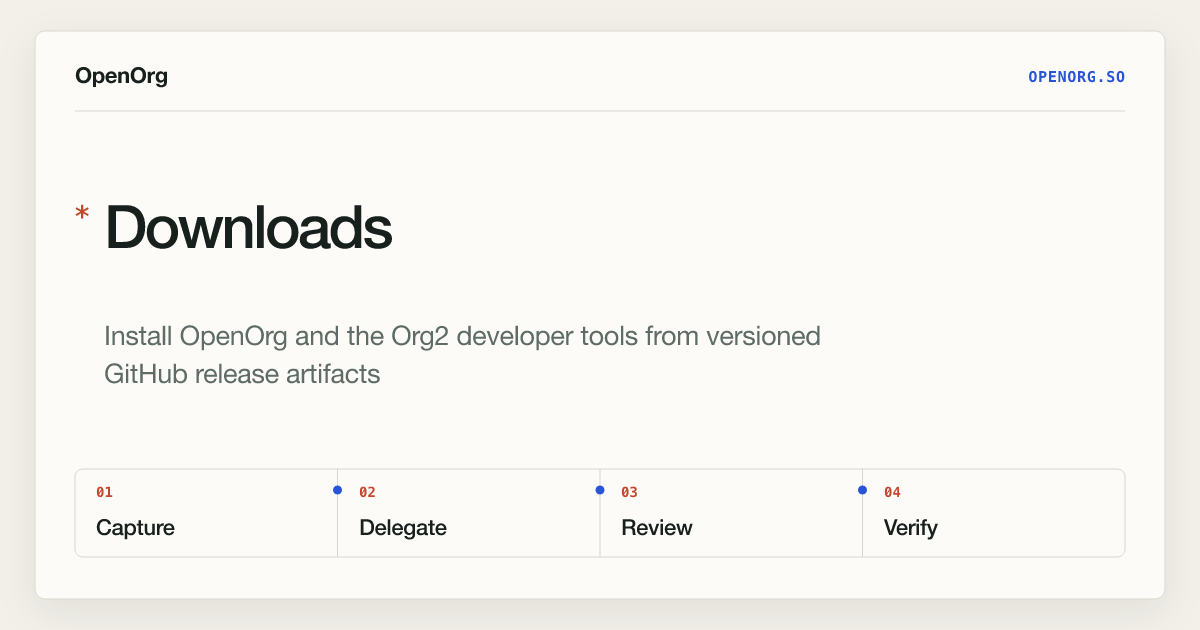
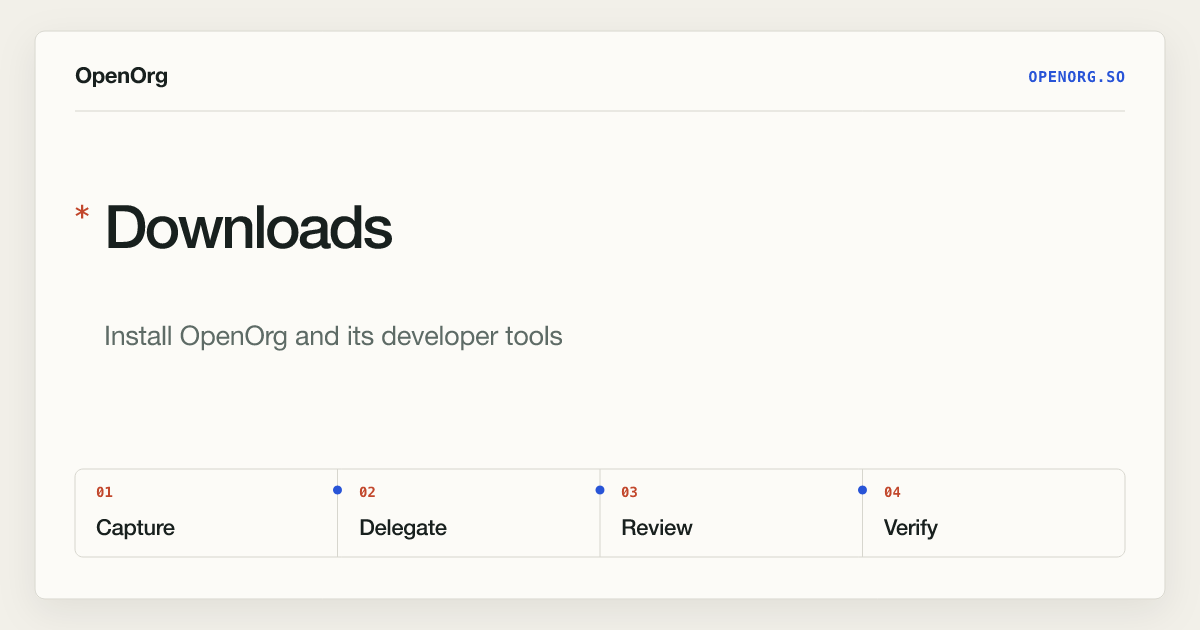
Publish OpenOrg 0.5.1 download surfaces

Changed region(s): [[0.2775, 0.5127, 0.6783, 0.573], [0.0925, 0.573, 0.3083, 0.6333]]

diff --git a/site/downloads.html b/site/downloads.html
@@ -4,31 +4,31 @@
 <meta charset="utf-8" />
 <meta name="viewport" content="width=device-width, initial-scale=1" />
 <title>Downloads</title>
-<meta name="subtitle" content="Install OpenOrg and the Org2 developer tools from versioned GitHub release artifacts" />
+<meta name="subtitle" content="Install OpenOrg and its developer tools" />
 <link rel="icon" type="image/png" href="assets/favicon.png" />
 <link rel="apple-touch-icon" href="assets/apple-touch-icon.png" />
 <script type="module" src="assets/shiki-vscode.js"></script>
 <script defer src="assets/nav.js"></script>
-<meta name="description" content="Install OpenOrg and the Org2 developer tools from versioned GitHub release artifacts" />
+<meta name="description" content="Install OpenOrg and its developer tools" />
 <link rel="canonical" href="https://openorg.so/downloads.html" />
 <meta property="og:type" content="website" />
 <meta property="og:site_name" content="OpenOrg" />
 <meta property="og:locale" content="en_US" />
 <meta property="og:title" content="Downloads" />
-<meta property="og:description" content="Install OpenOrg and the Org2 developer tools from versioned GitHub release artifacts" />
+<meta property="og:description" content="Install OpenOrg and its developer tools" />
 <meta property="og:url" content="https://openorg.so/downloads.html" />
 <meta property="og:image" content="https://openorg.so/assets/og/downloads.png" />
 <meta property="og:image:secure_url" content="https://openorg.so/assets/og/downloads.png" />
 <meta property="og:image:type" content="image/png" />
 <meta property="og:image:width" content="1200" />
 <meta property="og:image:height" content="630" />
-<meta property="og:image:alt" content="Downloads — Install OpenOrg and the Org2 developer tools from versioned GitHub release artifacts" />
+<meta property="og:image:alt" content="Downloads — Install OpenOrg and its developer tools" />
 <meta name="twitter:card" content="summary_large_image" />
 <meta name="twitter:title" content="Downloads" />
-<meta name="twitter:description" content="Install OpenOrg and the Org2 developer tools from versioned GitHub release artifacts" />
+<meta name="twitter:description" content="Install OpenOrg and its developer tools" />
 <meta name="twitter:url" content="https://openorg.so/downloads.html" />
 <meta name="twitter:image" content="https://openorg.so/assets/og/downloads.png" />
-<meta name="twitter:image:alt" content="Downloads — Install OpenOrg and the Org2 developer tools from versioned GitHub release artifacts" />
+<meta name="twitter:image:alt" content="Downloads — Install OpenOrg and its developer tools" />
 <link rel="stylesheet" href="assets/site.css" />
 <style>
 :root { color-scheme: light dark; }
@@ -64,45 +64,45 @@ a { text-decoration-thickness: 0.08em; text-underline-offset: 0.15em; }
 <div class="org2-nav"><details class="org2-nav-menu" open><summary>Menu</summary><nav aria-label="OpenOrg"><a href="index.html">OpenOrg</a><a href="features.html">How it works</a><a href="getting-started.html">Getting started</a><a href="downloads.html">Downloads</a><a href="openorg-and-org2.html">Architecture</a><details class="org2-nav-dropdown"><summary>Org2 developer docs</summary><div class="org2-nav-dropdown-menu"><a href="reference.html">Overview</a><a href="corpus-flow.html">Corpus flow</a><a href="language-reference.html">Language reference</a><a href="tooling-reference.html">Tooling reference</a><a href="maintenance-workflows.html">Maintenance and health</a><a href="agent-quickstart.html">Agents and models</a><a href="semantics-status.html">Semantics and status</a><a href="migration.html">Practical migration</a></div></details><details class="org2-nav-dropdown"><summary>Editors</summary><div class="org2-nav-dropdown-menu"><a href="editors.html">Overview</a><a href="editors-macos.html">OpenOrg for macOS</a><a href="editors-vscode.html">VS Code</a><a href="editors-vim.html">Vim / Neovim</a><a href="editors-emacs.html">Emacs</a></div></details><a class="org2-nav-github" href="https://github.com/aviaviavi/org2" target="_blank" rel="noopener noreferrer"><svg class="org2-nav-github-icon" viewBox="0 0 16 16" aria-hidden="true"><path fill="currentColor" d="M8 0C3.58 0 0 3.58 0 8a8.013 8.013 0 0 0 5.47 7.59c.4.07.55-.17.55-.38 0-.19-.01-.82-.01-1.49-2.01.37-2.53-.49-2.69-.94-.09-.23-.48-.94-.82-1.13-.28-.15-.68-.52-.01-.53.63-.01 1.08.58 1.23.82.72 1.21 1.87.87 2.33.66.07-.52.28-.87.5-1.07-1.78-.2-3.64-.89-3.64-3.95 0-.87.31-1.59.82-2.15-.08-.2-.36-1.02.08-2.12 0 0 .67-.21 2.2.82a7.57 7.57 0 0 1 2-.27c.68 0 1.36.09 2 .27 1.53-1.04 2.2-.82 2.2-.82.44 1.1.16 1.92.08 2.12.51.56.82 1.27.82 2.15 0 3.07-1.87 3.75-3.65 3.95.29.25.54.73.54 1.48 0 1.07-.01 1.93-.01 2.19 0 .21.15.46.55.38A8.013 8.013 0 0 0 16 8c0-4.42-3.58-8-8-8Z"/></svg> GitHub</a><form class="org2-site-search" role="search"><button class="org2-site-search-toggle" type="button" aria-label="Open site search" aria-expanded="false">⌕</button><label class="sr-only" for="org2-site-search-input">Search OpenOrg and Org2 docs</label><input id="org2-site-search-input" type="search" placeholder="Search docs" autocomplete="off" aria-label="Search OpenOrg and Org2 docs" aria-expanded="false"/><div class="org2-site-search-results" hidden></div></form></nav></details></div>
 <header class="org2-document-header">
 <h1 class="org2-document-title">Downloads</h1>
-<p class="org2-document-subtitle" role="doc-subtitle">Install OpenOrg and the Org2 developer tools from versioned GitHub release artifacts</p>
+<p class="org2-document-subtitle" role="doc-subtitle">Install OpenOrg and its developer tools</p>
 </header>
 <section class="org2-page-intro org2-downloads-intro">
-  <p>OpenOrg is the workspace product; Org2 is its open format and developer toolkit. GitHub Releases hosts the artifacts, and direct-download links pass through Scarf Gateway for aggregate measurement before redirecting to the original file.</p>
+  <p>OpenOrg is the workspace product; Org2 is its open format and developer toolkit. OpenOrg disk images are hosted by GitHub Releases, while the VS Code extension and npm package link to their canonical registry pages.</p>
 </section>
 <section class="org2-headline level-1">
-<h1 id="openorg-050">OpenOrg 0.5.0</h1>
-<section class="org2-download-grid" aria-label="OpenOrg 0.5.0 downloads">
+<h1 id="openorg-051">OpenOrg 0.5.1</h1>
+<section class="org2-download-grid" aria-label="OpenOrg 0.5.1 downloads">
     <article class="org2-download-card org2-download-card-macos-apple-silicon">
       <p class="org2-download-kicker">macOS</p>
       <h3>OpenOrg for macOS (Apple Silicon DMG)</h3>
       <p>Native Apple Silicon workspace app. Developer ID signed, notarized, and stapled.</p>
-      <p class="org2-download-meta">0.5.0 · 220.9 MB</p>
-      <a class="org2-download-button" href="https://org2.gateway.scarf.sh/downloads/0.5.0/OpenOrg.dmg">Download <span aria-hidden="true">↓</span></a>
+      <p class="org2-download-meta">0.5.1 · 219.3 MB</p>
+      <a class="org2-download-button" href="https://org2.gateway.scarf.sh/downloads/0.5.1/OpenOrg.dmg">Download <span aria-hidden="true">↓</span></a>
     </article>
     <article class="org2-download-card org2-download-card-macos-intel">
       <p class="org2-download-kicker">macOS</p>
       <h3>OpenOrg for macOS (Intel DMG)</h3>
       <p>Native Intel workspace app. Developer ID signed, notarized, and stapled.</p>
-      <p class="org2-download-meta">0.5.0 · 223.1 MB</p>
-      <a class="org2-download-button" href="https://org2.gateway.scarf.sh/downloads/0.5.0/OpenOrg-Intel.dmg">Download <span aria-hidden="true">↓</span></a>
+      <p class="org2-download-meta">0.5.1 · 223.3 MB</p>
+      <a class="org2-download-button" href="https://org2.gateway.scarf.sh/downloads/0.5.1/OpenOrg-Intel.dmg">Download <span aria-hidden="true">↓</span></a>
     </article>
     <article class="org2-download-card org2-download-card-vscode">
       <p class="org2-download-kicker">VS Code</p>
-      <h3>Org2 for VS Code (VSIX)</h3>
+      <h3>Org2 for VS Code</h3>
       <p>Editor integration with syntax, agenda, navigation, formatting, and Org2 commands.</p>
-      <p class="org2-download-meta">0.5.0 · 173 KB</p>
-      <a class="org2-download-button" href="https://org2.gateway.scarf.sh/downloads/0.5.0/org2-vscode-0.5.0.vsix">Download <span aria-hidden="true">↓</span></a>
+      <p class="org2-download-meta">VS Code Marketplace</p>
+      <a class="org2-download-button" href="https://marketplace.visualstudio.com/items?itemName=AviPress.org2-vscode">View in Marketplace <span aria-hidden="true">↗</span></a>
     </article>
     <article class="org2-download-card org2-download-card-npm">
       <p class="org2-download-kicker">npm / CLI</p>
-      <h3>Org2 npm package (TGZ)</h3>
+      <h3>Org2 npm package</h3>
       <p>CLI, compiler, language server, publishing runtime, and agent-facing tools.</p>
-      <p class="org2-download-meta">0.5.0 · 328 KB</p>
-      <a class="org2-download-button" href="https://org2.gateway.scarf.sh/downloads/0.5.0/aviaviavi-org2-0.5.0.tgz">Download <span aria-hidden="true">↓</span></a>
+      <p class="org2-download-meta">npm registry</p>
+      <a class="org2-download-button" href="https://www.npmjs.com/package/@aviaviavi/org2">View on npm <span aria-hidden="true">↗</span></a>
     </article>
 </section>
 <p>The OpenOrg disk images are available for Apple Silicon and Intel. Both are Developer ID signed, notarized, stapled, and accepted by Gatekeeper.</p>
-<p>For registry-managed installation, use <code>npm install -g @aviaviavi/org2</code> or install <a href="https://marketplace.visualstudio.com/items?itemName=AviPress.org2-vscode">Org2 from the VS Code Marketplace</a>. The paired iOS app is distributed separately through TestFlight.</p>
+<p>For registry-managed installation, use <a href="https://www.npmjs.com/package/@aviaviavi/org2">the Org2 package on npm</a> or install <a href="https://marketplace.visualstudio.com/items?itemName=AviPress.org2-vscode">Org2 from the VS Code Marketplace</a>. The paired iOS app is distributed separately through TestFlight.</p>
 </section>
 <section class="org2-headline level-1">
 <h1 id="openorg-for-ios">OpenOrg for iOS</h1>
@@ -126,28 +126,13 @@ a { text-decoration-thickness: 0.08em; text-underline-offset: 0.15em; }
 <p>The <a href="getting-started.html#ios-app">iOS setup guide</a> covers source signing, the share extension, corpus sync, and pairing Mobile Remote with the Mac app over Tailscale.</p>
 </section>
 <section class="org2-headline level-1">
-<h1 id="org2-developer-tool-releases">Org2 developer tool releases</h1>
-<p>These are the same files attached to each <a href="https://github.com/aviaviavi/org2/releases">GitHub Release</a>. Scarf Gateway records the version and artifact variables before redirecting to GitHub.</p>
-<table>
-<thead>
-<tr><th>Version</th><th>VS Code VSIX</th><th>npm TGZ</th></tr>
-</thead>
-<tbody>
-<tr><td>0.5.0</td><td><a href="https://org2.gateway.scarf.sh/downloads/0.5.0/org2-vscode-0.5.0.vsix">Download</a></td><td><a href="https://org2.gateway.scarf.sh/downloads/0.5.0/aviaviavi-org2-0.5.0.tgz">Download</a></td></tr>
-<tr><td>0.4.2</td><td><a href="https://org2.gateway.scarf.sh/downloads/0.4.2/org2-vscode-0.4.2.vsix">Download</a></td><td><a href="https://org2.gateway.scarf.sh/downloads/0.4.2/aviaviavi-org2-0.4.2.tgz">Download</a></td></tr>
-<tr><td>0.4.1</td><td><a href="https://org2.gateway.scarf.sh/downloads/0.4.1/org2-vscode-0.4.1.vsix">Download</a></td><td><a href="https://org2.gateway.scarf.sh/downloads/0.4.1/aviaviavi-org2-0.4.1.tgz">Download</a></td></tr>
-<tr><td>0.4.0</td><td><a href="https://org2.gateway.scarf.sh/downloads/0.4.0/org2-vscode-0.4.0.vsix">Download</a></td><td><a href="https://org2.gateway.scarf.sh/downloads/0.4.0/aviaviavi-org2-0.4.0.tgz">Download</a></td></tr>
-</tbody>
-</table>
-</section>
-<section class="org2-headline level-1">
-<h1 id="stable-download-url">Stable download URL</h1>
-<p>Release automation uses one permanent template:</p>
+<h1 id="stable-openorg-download-url">Stable OpenOrg download URL</h1>
+<p>OpenOrg release automation uses one permanent template for versioned disk images:</p>
 <pre class="org2-src language-text" style="padding: 0.9rem 1rem; border: 1px solid rgba(127,127,127,0.28); border-radius: 0.6rem; background: rgba(127,127,127,0.11); font-family: ui-monospace, SFMono-Regular, Menlo, Consolas, 'Liberation Mono', monospace; font-size: 0.92rem; line-height: 1.28;"><code class="language-text">https://org2.gateway.scarf.sh/downloads/{version}/{artifact}</code></pre>
 <p>For example, the current OpenOrg builds are:</p>
-<pre class="org2-src language-text" style="padding: 0.9rem 1rem; border: 1px solid rgba(127,127,127,0.28); border-radius: 0.6rem; background: rgba(127,127,127,0.11); font-family: ui-monospace, SFMono-Regular, Menlo, Consolas, 'Liberation Mono', monospace; font-size: 0.92rem; line-height: 1.28;"><code class="language-text">https://org2.gateway.scarf.sh/downloads/0.5.0/OpenOrg.dmg
-https://org2.gateway.scarf.sh/downloads/0.5.0/OpenOrg-Intel.dmg</code></pre>
-<p>Scarf redirects that request to the matching <code>github.com/aviaviavi/org2/releases/download/{version}/{artifact}</code> URL. No release files are hosted separately by Scarf.</p>
+<pre class="org2-src language-text" style="padding: 0.9rem 1rem; border: 1px solid rgba(127,127,127,0.28); border-radius: 0.6rem; background: rgba(127,127,127,0.11); font-family: ui-monospace, SFMono-Regular, Menlo, Consolas, 'Liberation Mono', monospace; font-size: 0.92rem; line-height: 1.28;"><code class="language-text">https://org2.gateway.scarf.sh/downloads/0.5.1/OpenOrg.dmg
+https://org2.gateway.scarf.sh/downloads/0.5.1/OpenOrg-Intel.dmg</code></pre>
+<p>Scarf redirects those requests to the matching <code>github.com/aviaviavi/org2/releases/download/{version}/{artifact}</code> files. No release files are hosted separately by Scarf.</p>
 </section>
 </main>
 </div>

diff --git a/tools/README.md b/tools/README.md
@@ -23,7 +23,7 @@ Disposable generated output should stay outside the repository, be ignored, or l
 
 ## Release download synchronization
 
-`sync-release-downloads.mjs` reads GitHub Release assets, generates the canonical downloads page with Scarf Gateway links, and maintains an idempotent direct-download block in GitHub release notes. Its default mode is read-only:
+`sync-release-downloads.mjs` reads GitHub Release assets, generates the canonical downloads page with Scarf Gateway links for OpenOrg disk images and registry links for the VS Code and npm packages, and maintains an idempotent direct-download block in GitHub release notes. Its default mode is read-only:
 
 ```bash
 node tools/sync-release-downloads.mjs
